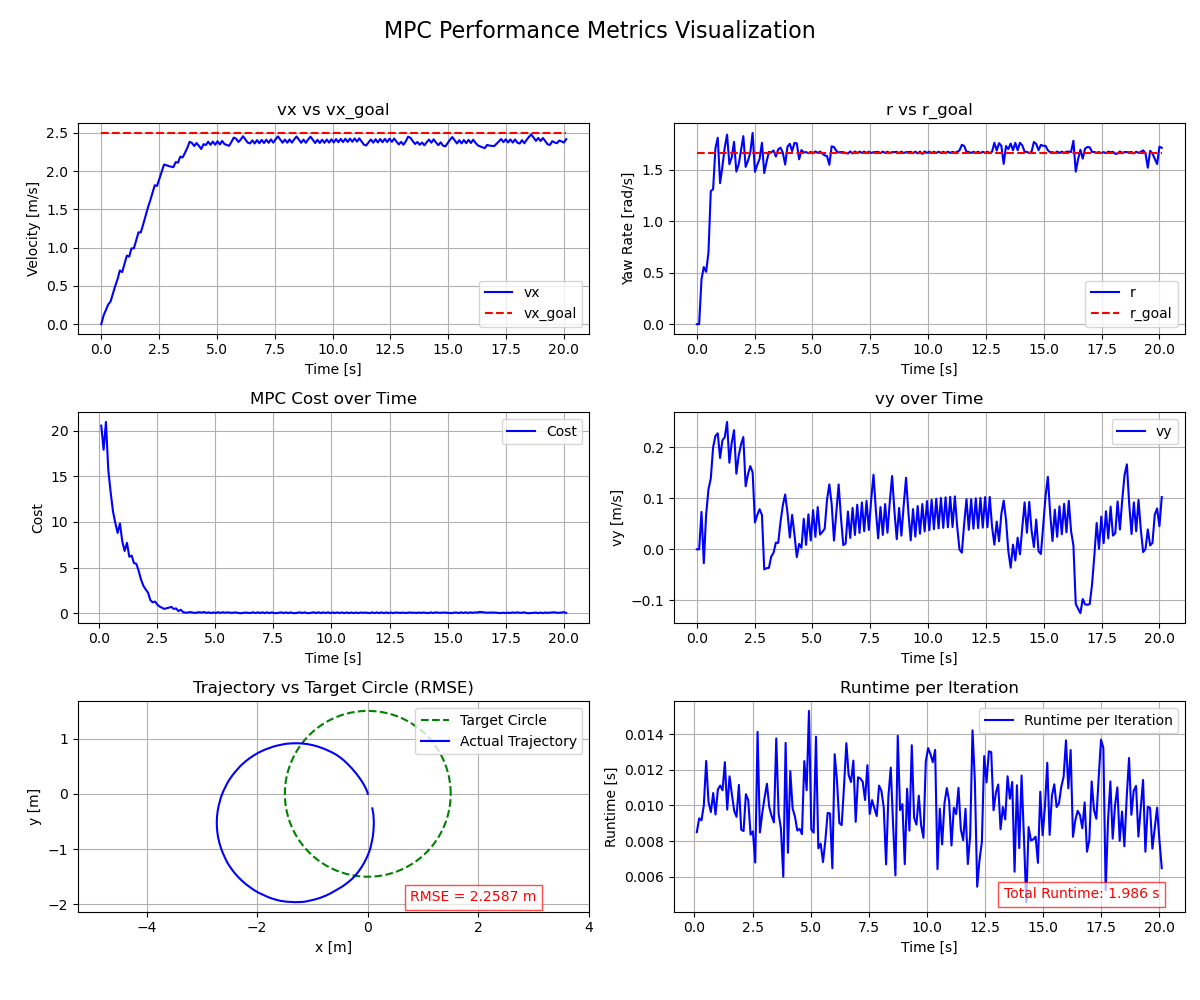
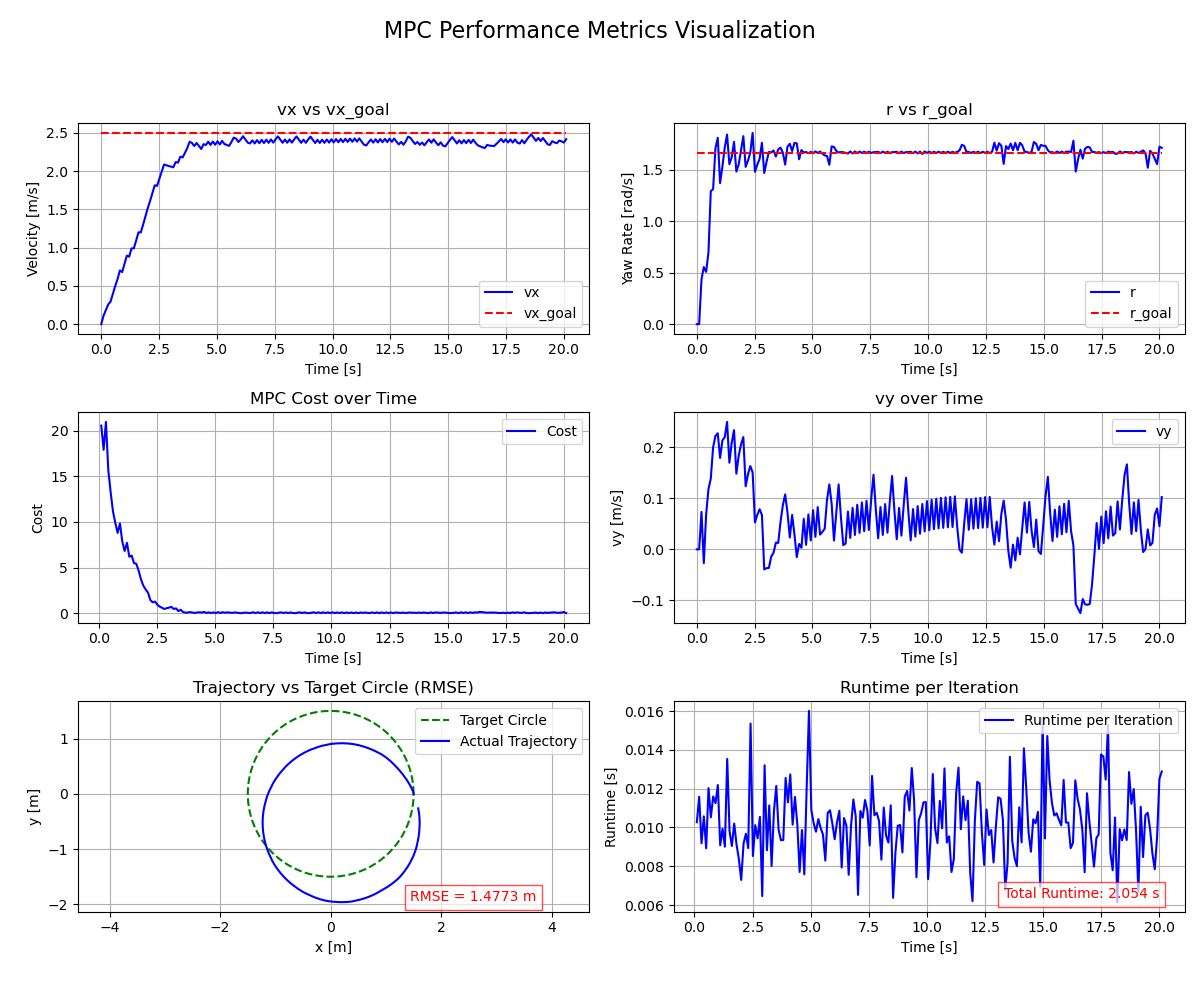
change initial state

diff --git a/nmpc_controller/scripts/loco_nmpc_offline.py b/nmpc_controller/scripts/loco_nmpc_offline.py
@@ -205,7 +205,7 @@ def mpc_cost(U, *args):
 # MPC parameters
 N = 3 #10  # Prediction horizon
 
-state = np.array([0.0, 0, np.pi/2, 0, 0, 0])  # Initial state [x, y, yaw, vx, vy, r]
+state = np.array([circle_radius, 0, np.pi/2, 0, 0, 0])  # Initial state [x, y, yaw, vx, vy, r]
 
 # Initial guess for controls
 

diff --git a/nmpc_controller/scripts/fuse_nmpc_offline.py b/nmpc_controller/scripts/fuse_nmpc_offline.py
@@ -162,7 +162,7 @@ def mpc_cost(U, *args):
 # MPC parameters
 N = 3 # 10 # 3  # Prediction horizon
 
-state = np.array([0.0, 0, np.pi/2, 0, 0, 0, 0]) 
+state = np.array([circle_radius, 0, np.pi/2, 0, 0, 0, 0]) 
 
 # Initial guess for controls
 
